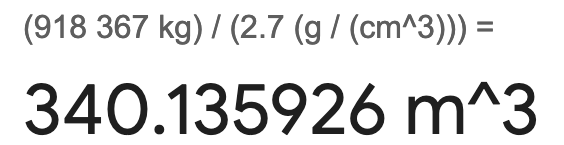
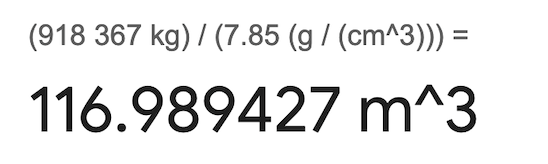
fix

Changed region(s): [[0.031, 0.4966, 0.9617, 0.9379], [0.031, 0.0828, 0.8996, 0.331]]

diff --git a/_posts/2024-10-17-arithmetic.md b/_posts/2024-10-17-arithmetic.md
@@ -116,14 +116,14 @@ How are tons related to kilograms? Say it with me: *Not your problem*. Just solv
 
 That's 65× more than just buying a 20 kWh home battery. But let's say you're committed to the bit. How *big* would that block be? Some searching reveals that the density of steel is around 7.85 g/cm³. So if you have a cubic block of volume VOLUME, then 
 
-&nbsp;&nbsp;*MASS = 2.7 g / cm³ × VOLUME*.
+&nbsp;&nbsp;*MASS = 7.85 g / cm³ × VOLUME*.
 
-Solving for *VOLUME*, using the previous value for *MASS*, and not stressing about units, you can [easily find](https://www.google.com/search?q=918367+kg+%2F+(2.7+g+%2F+cm^3)+in+m^3) that *VOLUME* is:
+Solving for *VOLUME*, using the previous value for *MASS*, and not stressing about units, you can [easily find](https://www.google.com/search?q=918367+kg+%2F+(7.85+g+%2F+cm^3)+in+m^3) that *VOLUME* is:
 
 
 <img src="/img/arithmetic/calc3.png" style="max-width:282px;">
 
-A 340 cubic meter block is around 7 meters on all sides. So, roughly speaking, your house will look something like this:
+A 117 cubic meter block is around 4.9 meters on all sides. So, roughly speaking, your house will look something like this:
 
 ![](/img/arithmetic/house.svg)
 
